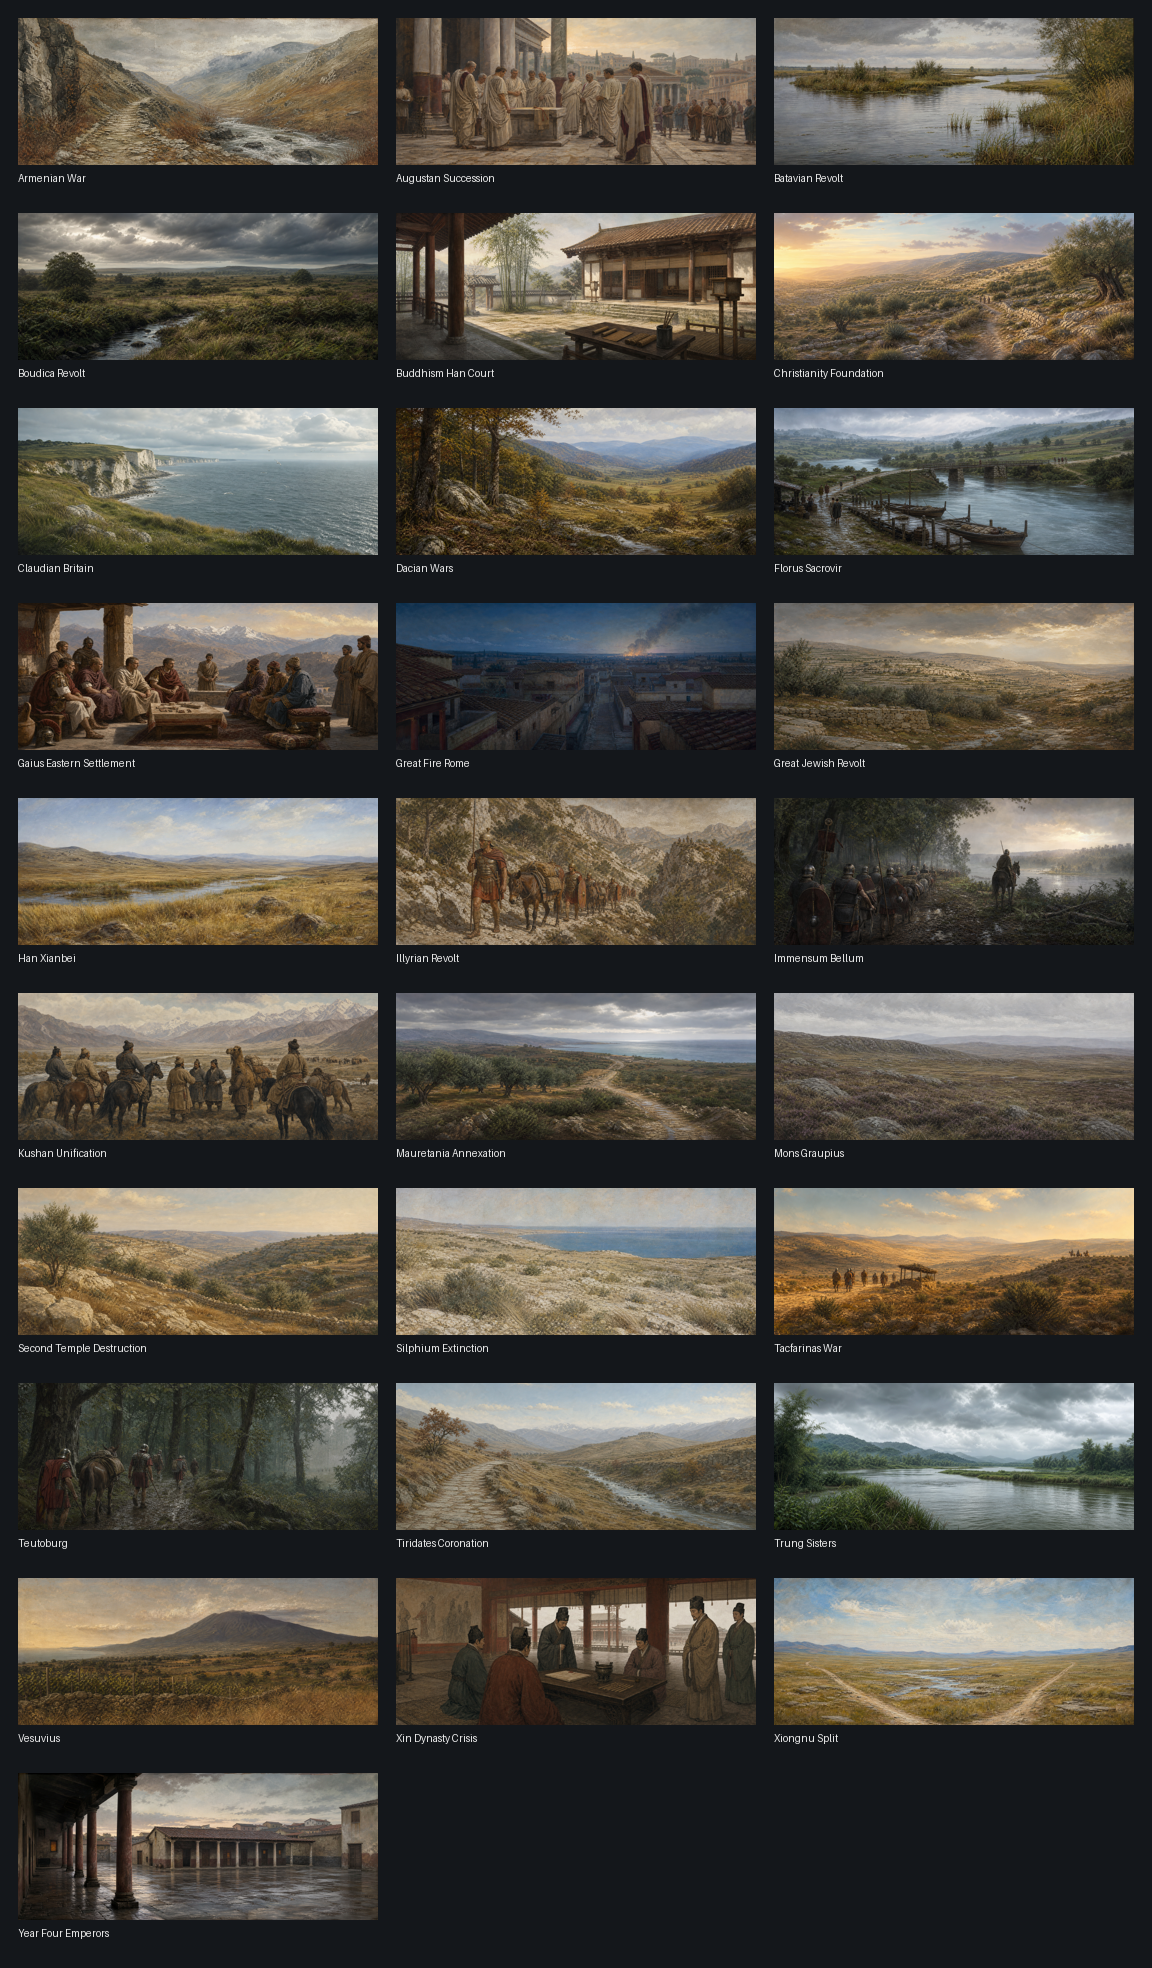
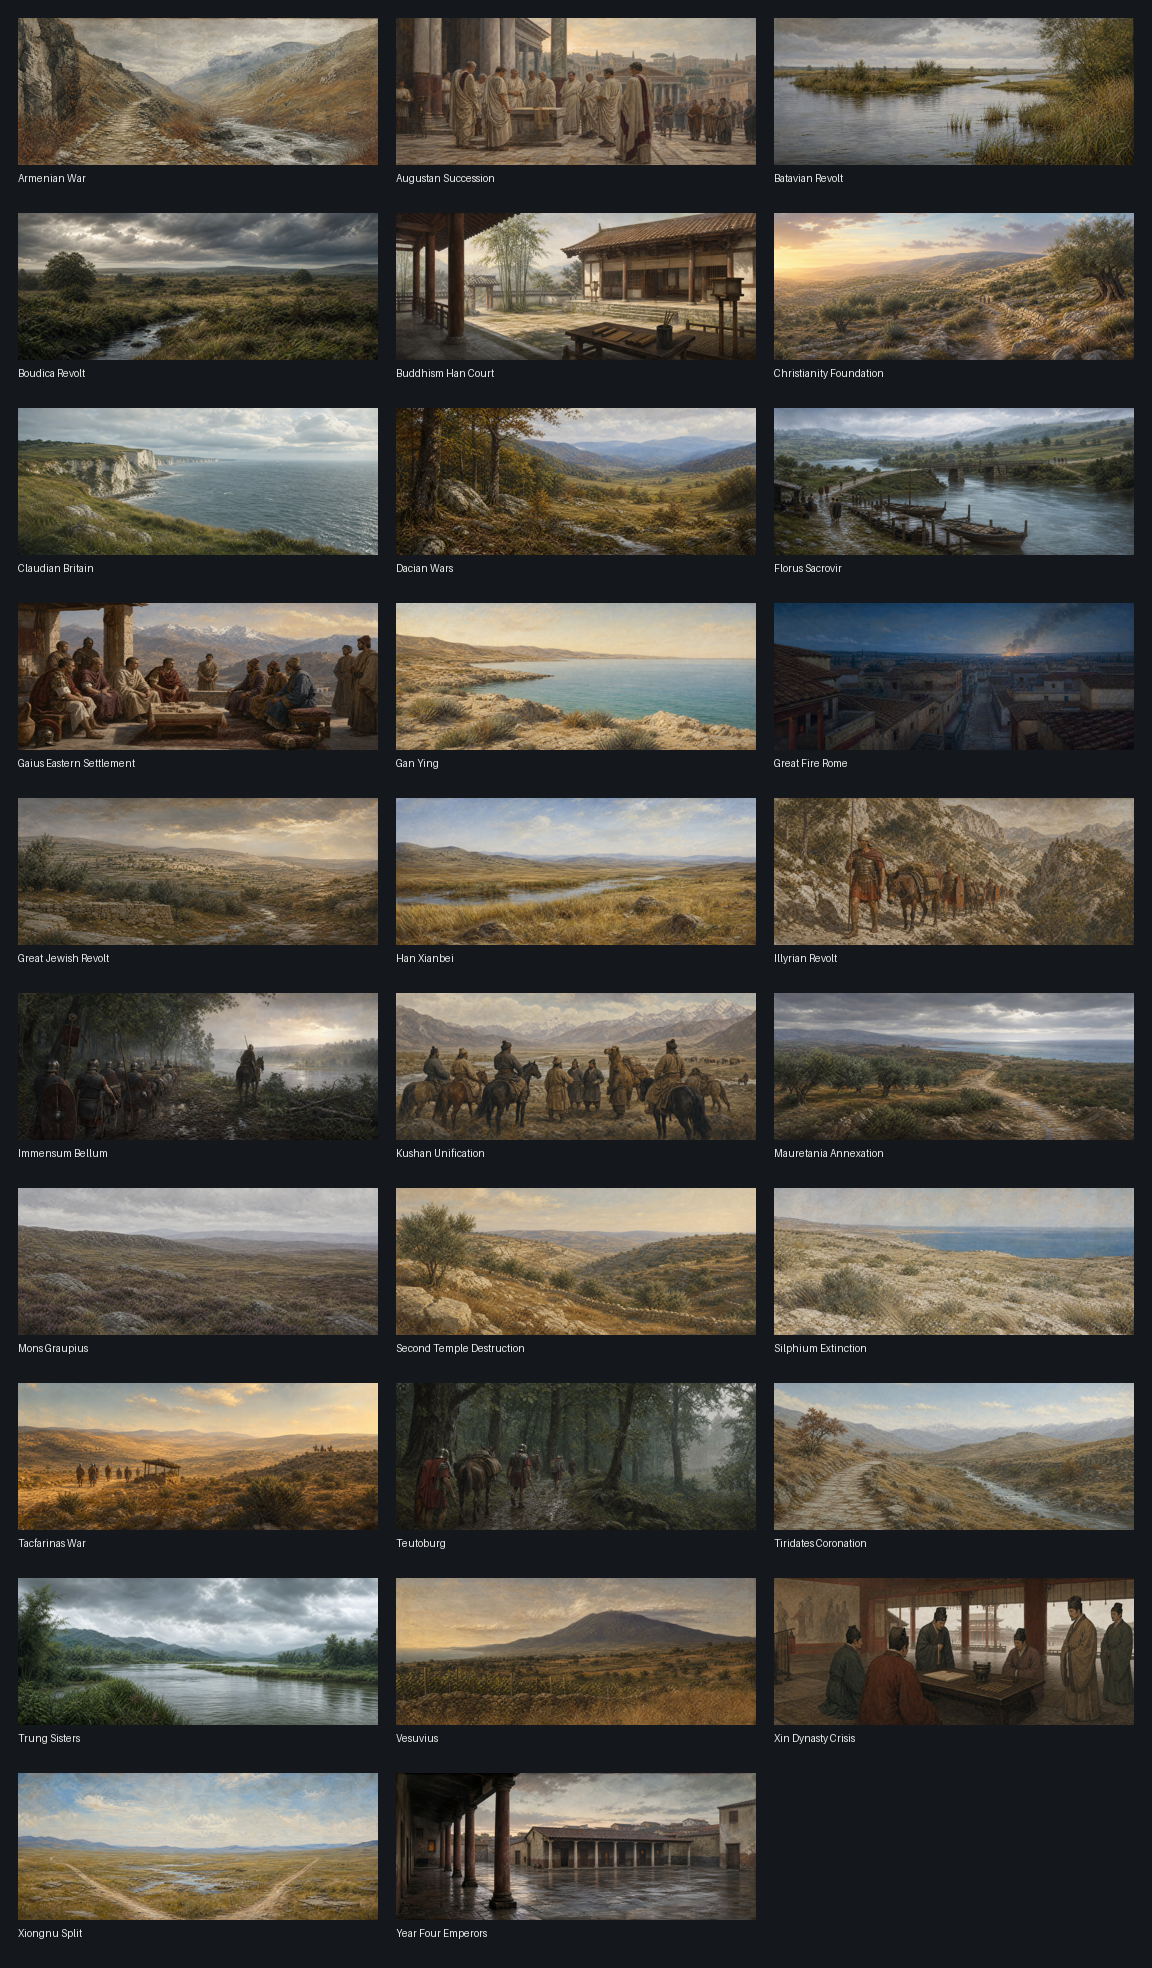
docs(m11): record Gan Ying art

diff --git a/docs/m11/contact_sheet.html b/docs/m11/contact_sheet.html
@@ -10,6 +10,7 @@
     <figure><img src="../../assets_queue/generated/antq_dacian_wars_1080x440.png" alt="Dacian Wars"><figcaption>Dacian Wars</figcaption></figure>
     <figure><img src="../../assets_queue/generated/antq_florus_sacrovir_1080x440.png" alt="Florus Sacrovir"><figcaption>Florus Sacrovir</figcaption></figure>
     <figure><img src="../../assets_queue/generated/antq_gaius_eastern_settlement_1080x440.png" alt="Gaius Eastern Settlement"><figcaption>Gaius Eastern Settlement</figcaption></figure>
+    <figure><img src="../../assets_queue/generated/antq_gan_ying_1080x440.png" alt="Gan Ying"><figcaption>Gan Ying</figcaption></figure>
     <figure><img src="../../assets_queue/generated/antq_great_fire_rome_1080x440.png" alt="Great Fire Rome"><figcaption>Great Fire Rome</figcaption></figure>
     <figure><img src="../../assets_queue/generated/antq_great_jewish_revolt_1080x440.png" alt="Great Jewish Revolt"><figcaption>Great Jewish Revolt</figcaption></figure>
     <figure><img src="../../assets_queue/generated/antq_han_xianbei_1080x440.png" alt="Han Xianbei"><figcaption>Han Xianbei</figcaption></figure>

diff --git a/docs/m11/M11_GAN_YING_ART.md b/docs/m11/M11_GAN_YING_ART.md
@@ -1,0 +1,26 @@
+# M11 Gan Ying's Mission illustration
+
+## Asset and scope
+
+The retained source is
+`assets_queue/generated_sources/antq_gan_ying_source.png`; its exact 1080x440
+derivative is `assets_queue/generated/antq_gan_ying_1080x440.png`. The
+game-facing BC7 DDS is
+`main_menu/gfx/interface/illustrations/event/antq_gan_ying.dds`.
+
+The text-free image is deliberately non-literal Persian Gulf environmental
+context: pale rocky shoreline, calm blue-green water, salt-tolerant scrub, and
+low dry hills. It identifies no traveler, ship, boat, port, route, destination,
+Han, Roman, Persian material, person, action, date, or outcome. Review excluded
+people, vessels, harbors, trade goods, buildings, maps, readable writing,
+labels, logos, and modern shore development.
+
+## Engine verification
+
+`EVENT_IMAGES` in `tools/m10_second_century.py` owns the
+`antq_m10_second.2000` image link. The texture follows the inspected 1080x440
+BC7 country-event form, was round-tripped to PNG for visual review, and passed
+`make validate` plus enabled-mod `make smoke` with zero new error-log lines.
+
+Sources: ANTIQVITAS master plan sections 8.2, 9, and 20; local EU5
+country-event image contract.

diff --git a/docs/TODO.md b/docs/TODO.md
@@ -216,7 +216,8 @@ after `make full` and its autonomous driver report are green.
 - [x] Generate, dimension-check, round-trip review, wire, and smoke-test the AD 85 Dacian Wars event illustration through a non-literal Carpathian foothill-context treatment.
 - [x] Generate, dimension-check, round-trip review, wire, and smoke-test the AD 89 Han-Xianbei War event illustration through a landscape-only northern grassland-context treatment.
 - [x] Complete the reviewed illustration mapping across all 28 generated M10 first-century currents.
-- [x] Render and review the maintained M11 event-art contact sheet (28 retained 1080x440 masters).
+- [x] Extend the generated second-century event-art contract and smoke-test the AD 97 Gan Ying's Mission illustration through a non-literal Persian Gulf coastal-context treatment.
+- [x] Render and review the maintained M11 event-art contact sheet (29 retained 1080x440 masters).
 - [ ] Reach event/decision targets; finish flags, icons, illustrations, loading/age art, localization, glossary, and credits.
 - [ ] Remove common-screen placeholders; run milestone gate and tag `M11-done`.
 

diff --git a/docs/PROGRESS.md b/docs/PROGRESS.md
@@ -1,5 +1,17 @@
 # Progress
 
+## 2026-07-20 - M11 Gan Ying's Mission event illustration
+
+- Extended the generated second-century event-art contract with texture-existence
+  validation and added a reviewed, non-literal Persian Gulf coastal-context
+  image to the AD 97 Gan Ying's Mission current.
+- The engine-sized BC7 texture was round-trip inspected; `make validate` and
+  enabled-mod smoke are green with zero new error-log lines. The maintained M11
+  contact sheet now has twenty-nine retained event masters.
+
+Next: continue the M11 later-century art queue and source-led M5/M6 audit
+while runtime-gated milestone checks remain deferred.
+
 ## 2026-07-20 - M11 Han-Xianbei War event illustration
 
 - Added a reviewed, landscape-only northern grassland-context image to the AD

diff --git a/docs/DECISIONS.md b/docs/DECISIONS.md
@@ -1,5 +1,17 @@
 # Technical and Design Decisions
 
+## 2026-07-20 - M11 second-century art uses the generator-owned image map
+
+`tools/m10_second_century.py` now owns `EVENT_IMAGES`, matching the checked
+first-century generator contract. It rejects unknown timeline keys and missing
+mod-relative DDS textures before rendering, and it emits the event `image`
+field from that map. This keeps later M10 art references regenerable rather
+than hand-editing generated events and prevents orphaned or silently dropped
+game-facing textures.
+
+Sources weighed: local `tools/m10_history.py`,
+`tools/m10_second_century.py`, and the installed country-event image contract.
+
 ## 2026-07-20 - M11 art review derives from retained masters
 
 The M11 review surface is generated from every

diff --git a/docs/ASSUMPTIONS.md b/docs/ASSUMPTIONS.md
@@ -1,5 +1,15 @@
 # Historical Assumptions
 
+## 2026-07-20 - Gan-Ying art is non-literal Persian Gulf coastal context
+
+The image is an unoccupied Persian Gulf shoreline of pale rock, calm water,
+salt-tolerant scrub, and low dry hills. It identifies no traveler, ship, boat,
+port, route, destination, Han, Roman, Persian material, person, action, date,
+or outcome. It deliberately excludes vessels, harbors, trade goods, buildings,
+and maps; it is not a reconstruction of Gan Ying's AD 97 mission. Sources
+weighed: P8.2; plan sections 9 and 20. [secure broad regional context;
+illustrative composition only]
+
 ## 2026-07-20 - Han-Xianbei-War art is landscape-only northern context
 
 The image is an unoccupied northern grassland with tawny grass, a shallow

diff --git a/docs/m11/M11_CONTACT_SHEET.md b/docs/m11/M11_CONTACT_SHEET.md
@@ -5,7 +5,7 @@ every retained `assets_queue/generated/antq_*_1080x440.png` master. The HTML
 is the browsable review surface; the PNG is the compact visual record suitable
 for inclusion in the M11 milestone report.
 
-The current review contains twenty-eight 1080x440 event masters. It was inspected for
+The current review contains twenty-nine 1080x440 event masters. It was inspected for
 omissions, clipped labels, incorrect aspect ratios, readable text, watermarks,
 or obvious anachronistic material. Individual asset records retain the more
 specific historical-scope findings and engine checks.
